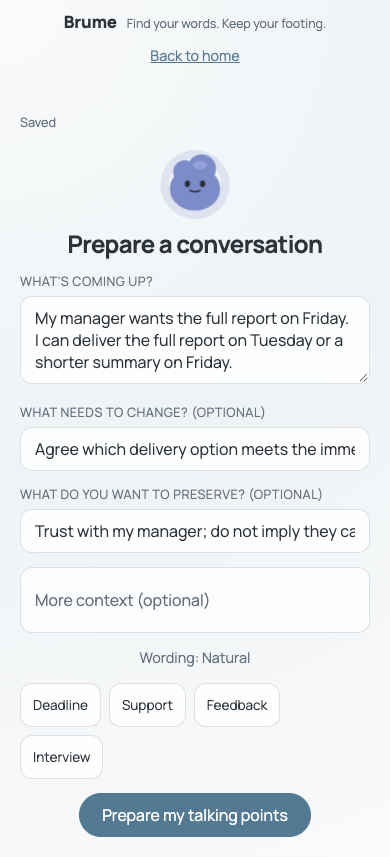
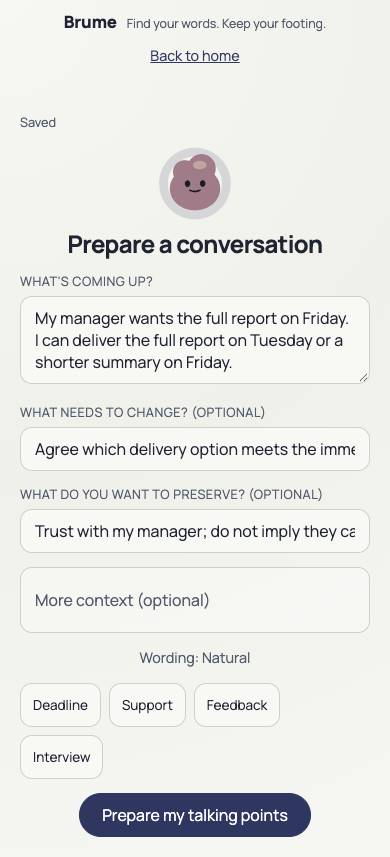
anna: cut app version 0.3.7 with the animated mascot
Publishes the shared-mascot rework and mascot life (029fb0f) as an
immutable app version; the bundled tool is unchanged at 0.4.4 so all
four executa binaries were deduped from the existing release.

- anna-app apps publish --bump patch → version_id=1902,
  executa_version 790 frozen; app.json bumped to 0.3.7.
- npm run test:browser: 20/20 pass on the new sprite.
- listing/candidate/*.png regenerated with the new mascot.

Not live, not submitted: apps release is refused while the app status
is Rejected — the console path is submit-review, which stays deferred
until the quota-blocked tier-3 Cloud Agent run can go.

Generated with [Devin](https://devin.ai)

Changed region(s): [[0.1846, 0.9102, 0.8, 1.0], [0.4, 0.1517, 0.5846, 0.273], [0.4, 0.0607, 0.6154, 0.091]]

diff --git a/anna/README.md b/anna/README.md
@@ -8,10 +8,11 @@ preparation is the primary function; basic fallback breathing remains
 available. Anna determines whether a run qualifies for its program.
 Unfinished tasks checkpoint to user storage and resume on reopen.
 
-Current state (2026-11-02, last console check): app status **Rejected**;
-version **0.3.6** (guarded startup, tool 0.4.4 unchanged) is installed on
-the developer account but **not submitted** for review. The shared-mascot
-rework below is in source only — not published. Bundled tool **0.4.4**
+Current state (2026-11-03, last console check): app status **Rejected**;
+version **0.3.7** (shared animated mascot + mascot life, guarded
+startup, tool 0.4.4 unchanged) is cut and installable but **not
+submitted** for review (`release` is gated on `submit-review`, which
+waits for the quota-blocked tier-3 run). Bundled tool **0.4.4**
 (binaries in GitHub release `brume-executa-v0.4.4`). App id 582, slug
 `brume`, tool id `tool-papa-brume-htcxvfcr`. Product context and the full
 progress log: [`docs/ANNA.md`](../docs/ANNA.md) §12.

diff --git a/docs/ANNA.md b/docs/ANNA.md
@@ -722,3 +722,16 @@ transitions and grokbot-desktop's event reactions); still source-only.
 - **Still needed for release:** the full
   browser suite, `listing/candidate/` regeneration with the new sprite,
   and the tier-3 Cloud Agent run before submit — none of that ran here.
+
+#### 12.10 status, 2026-11-03 (publish)
+
+- `anna-app apps publish --bump patch` cut **0.3.7**
+  (`version_id=1902`, executa_version 790 frozen again — tool unchanged
+  at 0.4.4; all four binaries deduped/cached). `app.json` bumped to
+  match. 20/20 `npm run test:browser` cases passed on the new sprite;
+  `listing/candidate/*.png` regenerated with it.
+- **`apps release 0.3.7` is refused while status is Rejected** — the
+  console path is `submit-review` → pending → approval → release. So
+  0.3.7 is an immutable, installable cut but NOT live and NOT
+  submitted. That stays the plan until the tier-3 Cloud Agent run can
+  go (account quota still the gate — §12.8).
